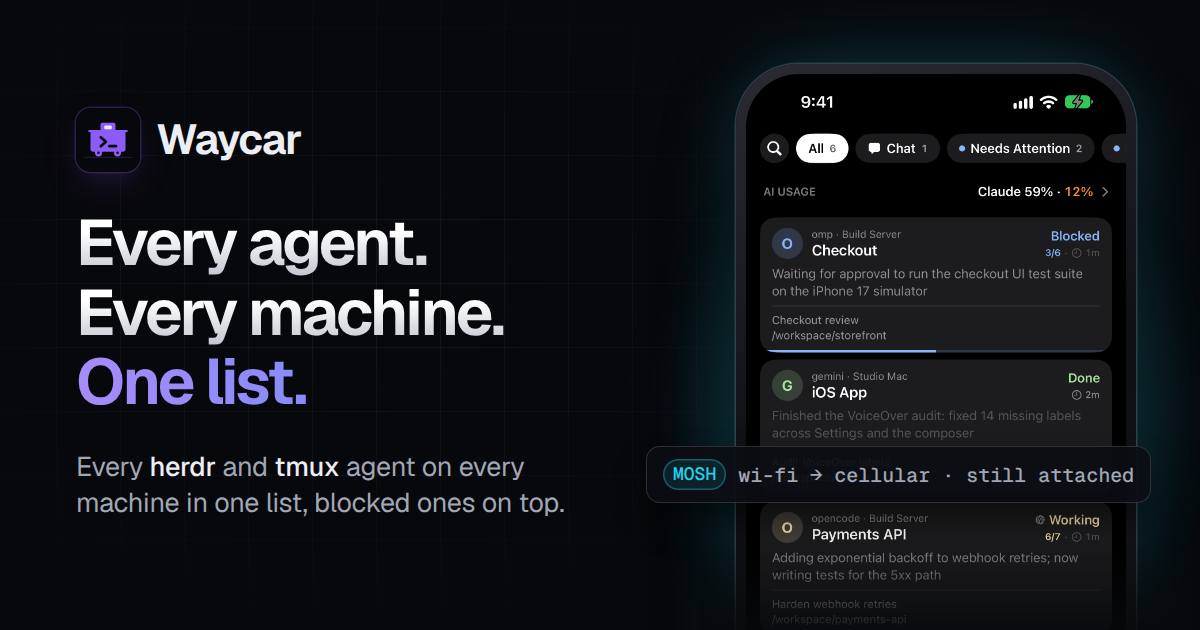
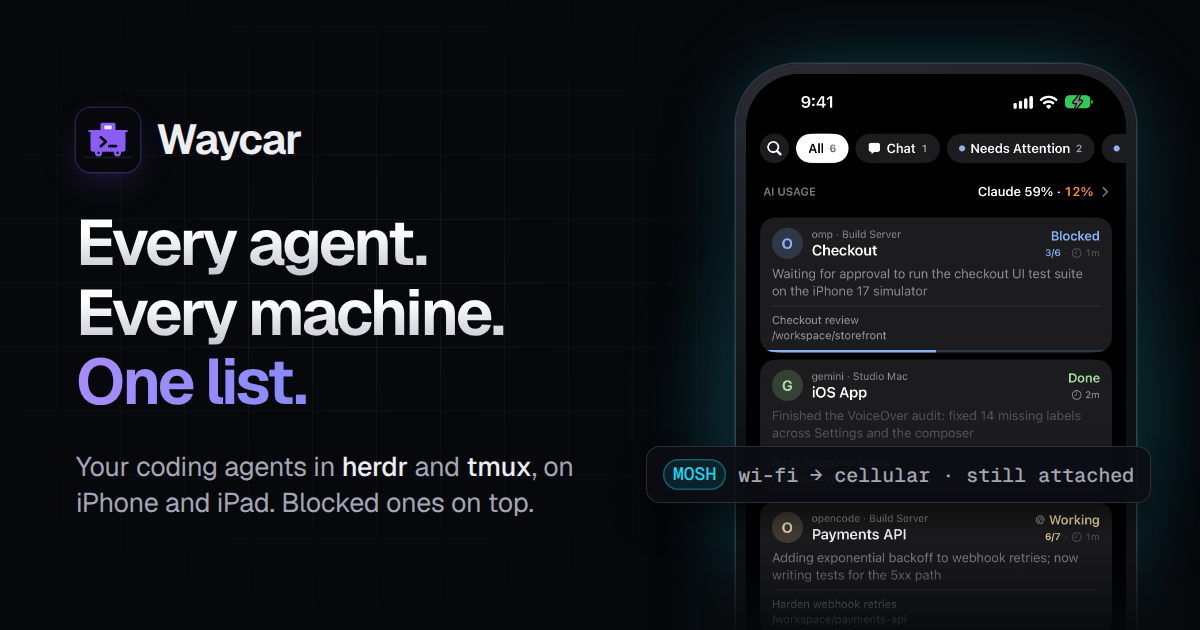
fix(web): the Sample answer says how you reach it; share card alt and README follow the new home page
The app does not open with the Sample: before a Host exists, the first
screen offers a Sample row. The share card's line under the headline no
longer repeats it, and its default alt text names the new headline. The
README's analytics paragraph says what the direct App Store link on iPhone
and iPad means for get_picker_opened.

Ultimate-Conversation: 201817

Changed region(s): [[0.0617, 0.7238, 0.4933, 0.8143]]

diff --git a/apps/web/og/home.html b/apps/web/og/home.html
@@ -43,6 +43,6 @@
   <div class="copy">
     <div class="brand"><img src="../../../docs/images/waycar-icon.svg" alt=""><span>Waycar</span></div>
     <h1><span class="title-text">Every agent.</span><span class="title-text">Every machine.</span><span class="grad-text">One list.</span></h1>
-    <p class="sub">Every <b>herdr</b> and <b>tmux</b> agent on every machine in one list, blocked ones on top.</p>
+    <p class="sub">Your coding agents in <b>herdr</b> and <b>tmux</b>, on iPhone and iPad. Blocked ones on top.</p>
   </div>
 </body></html>

diff --git a/apps/web/README.md b/apps/web/README.md
@@ -31,12 +31,15 @@ inside a `data-ph-module="<id>"` wrapper also carries `module: <id>` (the
 article page's `get-app`, `start-here`, `host-setup`, `first-launch` and
 `toc-card`; see [Articles](#articles)), so a store tap in the rail's picker reads
 `app_store_clicked` with `module=get-app` and `ct=article`. The id is written
-at build time, never read from element text. Every store button opens a Get
-Waycar picker (see [App Store switch](#app-store-switch)): the button sends
-`get_picker_opened` with the `ct` of the App Store link inside its picker (a
-paid ad's `ct` after the rewrite) and its `module`; the picker's App Store link
-sends `app_store_clicked` with that same `ct` and `module`. The Android tile,
-Close and the backdrop send nothing. Without JavaScript the site still works: the copy button stays hidden, the header's help search is a plain link to `/help`, a store button opens its picker through `:target` (two taps to the App Store link), and no events are sent.
+at build time, never read from element text. On an iPhone or iPad a store
+button is a direct App Store link and sends `app_store_clicked`; everywhere
+else it opens a Get Waycar picker (see [App Store switch](#app-store-switch)):
+the button sends `get_picker_opened` with the `ct` of the App Store link inside
+its picker (a paid ad's `ct` after the rewrite) and its `module`; the picker's
+App Store link sends `app_store_clicked` with that same `ct` and `module`. So
+`get_picker_opened` counts computers and Android only, and `app_store_clicked`
+without one before it is an iPhone or iPad. The Android tile, Close and the
+backdrop send nothing. Without JavaScript the site still works: the copy button stays hidden, the header's help search is a plain link to `/help`, a store button opens its picker through `:target` (two taps to the App Store link), and no events are sent.
 The Worker (`src/worker.ts`) also sends anonymous server-side events:
 `plugin_install_requested` per `GET /install.sh`, `plugin_package_downloaded`
 per plugin package download (see [Plugin install events](#plugin-install-events)),
@@ -805,7 +808,7 @@ same script and adds `internal: true` to the event; use it for our own fetches.
 
 | Path | What it holds |
 | --- | --- |
-| `src/pages/` | `index` (landing, home page A), `b` (home page B, served at `/`), `support`, `privacy`, `ipad` (screenshot gallery), `404`, `help/` (`/help`, `/help/<slug>`, `/help/<slug>.md`, `/help/search.json`), `changelog/` (`/changelog`, `/changelog/<n>`), `articles/`, `compare/` (`/compare`, `/compare/<slug>`, `/compare/<slug>.md`), `solutions/` (`/solutions`, `/solutions/<slug>`, `/solutions/<slug>.md`), plus the `llms.txt` (reviewed fallback), `index.md`, `help.md`, `articles.md`, `compare.md`, and `solutions.md` endpoints |
+| `src/pages/` | `index` (the home page), `x` (its `noindex` twin for X ad clicks, see [Ad links](#ad-links)), `carplay`, `support`, `privacy`, `ipad` (screenshot gallery), `404`, `help/` (`/help`, `/help/<slug>`, `/help/<slug>.md`, `/help/search.json`), `changelog/` (`/changelog`, `/changelog/<n>`), `articles/`, `compare/` (`/compare`, `/compare/<slug>`, `/compare/<slug>.md`), `solutions/` (`/solutions`, `/solutions/<slug>`, `/solutions/<slug>.md`), plus the `llms.txt` (reviewed fallback), `index.md`, `help.md`, `articles.md`, `compare.md`, and `solutions.md` endpoints |
 | `src/content/help/` | Help pages, one Markdown file per feature (see [Help docs](#help-docs)); schema in `src/content.config.ts` |
 | `src/content/changelog/` | Released versions, one Markdown file per version (see [Changelog](#changelog)); schema in `src/content.config.ts` |
 | `src/content/compare/`, `src/content/solutions/` | Comparisons and solution pages, one Markdown file each (see [Compare and solutions](#compare-and-solutions)); schemas in `src/content.config.ts` |
@@ -837,7 +840,9 @@ The share cards are `public/og.png` (every page's default) and
 `og/`, which use the site's fonts, the screenshots in `src/assets/screens/`,
 and `docs/images/waycar-icon.svg`. After changing any of those, run
 `og/render.sh` (needs Google Chrome) and commit the PNGs. A page picks its card
-with `Layout`'s `image` and `imageAlt` props.
+with `Layout`'s `image` and `imageAlt` props. The default card repeats the home
+page's headline: change `og/home.html` and `Layout`'s default `imageAlt` with
+it.
 
 ## Domains and deployment
 

diff --git a/apps/web/src/llms/index.md b/apps/web/src/llms/index.md
@@ -228,7 +228,7 @@ curl -fsSL https://waycar.dev/install.sh | sh
 
 ### Can I try it before I set up a machine?
 
-Yes. The app opens with a labelled Sample of Blocked, Done and Working agents that you can browse offline. It goes away when you add a Host.
+Yes. Before you add a machine, the first screen offers a Sample: example Blocked, Done and Working agents you can browse offline. It is read-only, and it goes away when you add a Host.
 
 ### Which agents work in Chat Mode?
 
